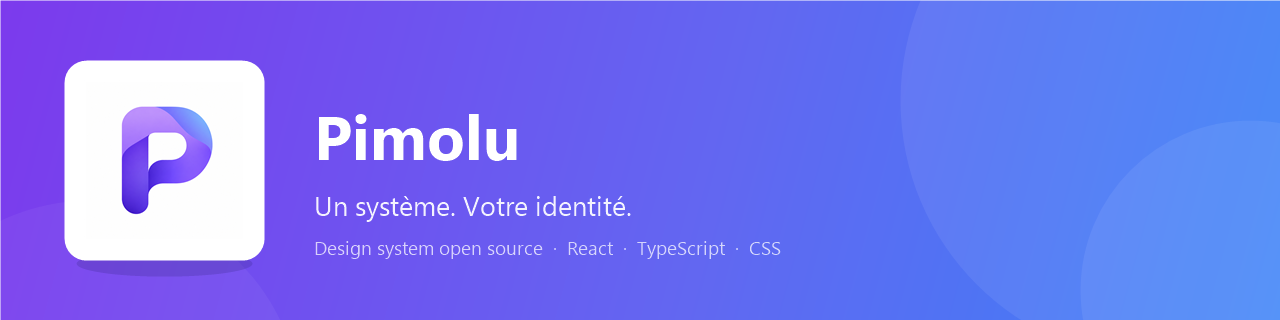
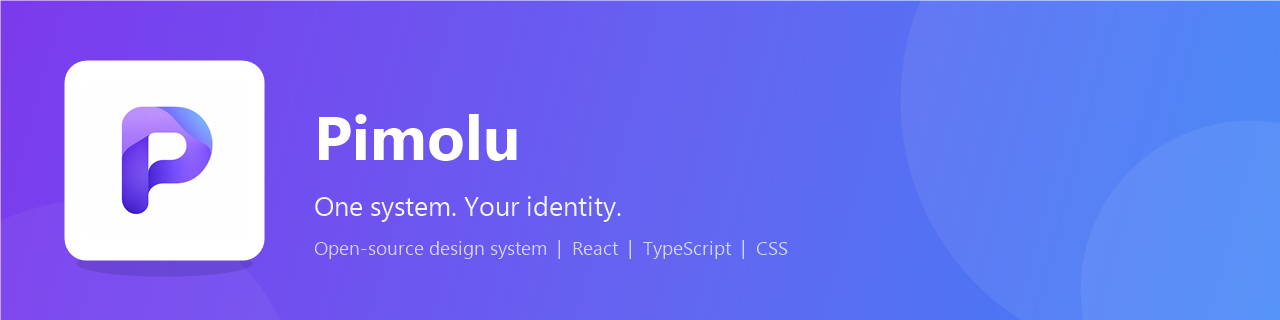
docs: switch organization profile to English

Changed region(s): [[0.25, 0.75, 0.625, 0.8125], [0.25, 0.5938, 0.5, 0.6875]]

diff --git a/profile/README.md b/profile/README.md
@@ -1,23 +1,19 @@
 <div align="center">
-  <img src="https://raw.githubusercontent.com/pimoludev/.github/main/profile/assets/banner.png" alt="Pimolu — Un système. Votre identité." width="100%" />
+  <img src="https://raw.githubusercontent.com/pimoludev/.github/main/profile/assets/banner.png" alt="Pimolu — One system. Your identity." width="100%" />
 </div>
 
-<h1 align="center">Bienvenue chez Pimolu</h1>
+<h1 align="center">Welcome to Pimolu</h1>
 
 <p align="center">
-  <strong>Un design system qui tient ses promesses.</strong><br />
-  Des composants React accessibles, une source de vérité unique pour le visuel,<br />
-  et des thèmes que l’on change à l’exécution — sans framework de style à apprendre.
+  <strong>A design system that keeps its promises.</strong><br />
+  Accessible React components, a single source of visual truth,<br />
+  and themes you can switch at runtime — with no styling framework to learn.
 </p>
 
 <p align="center">
-  <sub><em>Pimolu UI — an open-source design system that keeps its promises: tokens, themes and accessible React components.</em></sub>
-</p>
-
-<p align="center">
-  <a href="https://pimolu.com">Site</a> ·
+  <a href="https://pimolu.com">Website</a> ·
   <a href="https://pimolu.com/docs">Documentation</a> ·
-  <a href="https://pimolu.com/components">Composants</a> ·
+  <a href="https://pimolu.com/components">Components</a> ·
   <a href="https://pimolu.com/blocks">Blocks</a> ·
   <a href="https://pimolu.com/showcase">Showcase</a> ·
   <a href="https://www.npmjs.com/org/pimolu">npm</a> ·
@@ -25,35 +21,35 @@
 </p>
 
 <p align="center">
-  <a href="https://www.npmjs.com/package/@pimolu/react"><img src="https://img.shields.io/npm/v/@pimolu/react?label=%40pimolu%2Freact&color=7C3AED&labelColor=1F2937&style=flat-square" alt="Version npm de @pimolu/react" /></a>
-  <img src="https://img.shields.io/badge/licence-MIT-7C3AED?labelColor=1F2937&style=flat-square" alt="Licence MIT" />
-  <img src="https://img.shields.io/badge/React-18%20%7C%2019-7C3AED?labelColor=1F2937&style=flat-square" alt="React 18 et 19" />
-  <img src="https://img.shields.io/badge/TypeScript-strict-7C3AED?labelColor=1F2937&style=flat-square" alt="TypeScript strict" />
+  <a href="https://www.npmjs.com/package/@pimolu/react"><img src="https://img.shields.io/npm/v/@pimolu/react?label=%40pimolu%2Freact&color=7C3AED&labelColor=1F2937&style=flat-square" alt="npm version of @pimolu/react" /></a>
+  <img src="https://img.shields.io/badge/license-MIT-7C3AED?labelColor=1F2937&style=flat-square" alt="MIT license" />
+  <img src="https://img.shields.io/badge/React-18%20%7C%2019-7C3AED?labelColor=1F2937&style=flat-square" alt="React 18 and 19" />
+  <img src="https://img.shields.io/badge/TypeScript-strict-7C3AED?labelColor=1F2937&style=flat-square" alt="Strict TypeScript" />
 </p>
 
 ---
 
-## Notre conviction
+## Why Pimolu
 
-Les interfaces finissent par dériver. Une couleur ajustée ici, un rayon modifié là, et quelques mois plus tard plus aucun écran ne semble appartenir au même produit.
+Interfaces drift. A colour is adjusted here, a radius there, and a few months later no two screens quite look like they belong to the same product.
 
-Pimolu traite cette dérive comme le premier problème à résoudre. Chaque décision visuelle vit derrière un **design token** : la cohérence devient le comportement par défaut plutôt qu’un effort permanent. Les thèmes et les styles s’appliquent par attributs, jamais par du code conditionnel — on dessine l’interface une fois, puis on l’habille selon le produit, aujourd’hui comme demain.
+Pimolu treats that drift as the problem worth solving first. Every visual decision lives behind a **design token**, so consistency becomes the default instead of a constant effort. Themes and styles are applied through attributes, never through conditional code — you design the interface once, then dress it for the product, today and later.
 
-Et parce qu’une fondation doit rester lisible, il n’y a ni runtime CSS-in-JS, ni framework de classes utilitaires, ni magie de build. Juste du CSS : des classes `pimolu-*` et des variables `--pimolu-*` que vous pouvez lire, surcharger et quitter.
+And because a foundation should stay readable, there is no CSS-in-JS runtime, no utility-class framework and no build magic. Just CSS: `pimolu-*` classes and `--pimolu-*` variables you can read, override and leave.
 
-## Ce que ça change
+## What you get
 
-| Principe | Ce que vous obtenez |
+| Principle | What it means for you |
 | --- | --- |
-| **Une seule source de vérité** | Les valeurs sont écrites une fois comme design tokens, puis compilées pour le web et JavaScript. Un changement se propage au lieu d’être répété. |
-| **Des thèmes sans réécriture** | Clair, sombre et système, plus sept presets visuels, s’activent à l’exécution par attribut. Aucun composant n’est touché. |
-| **L’accessibilité incluse** | Navigation clavier, focus visible, états occupé et désactivé, libellés pour lecteurs d’écran et respect de `prefers-reduced-motion`. |
-| **Aucun framework à apprendre** | Du CSS simple et prévisible, facile à surcharger, sans verrou technique. |
-| **Typé de bout en bout** | TypeScript strict sur les composants et les API publiques : les erreurs arrivent avant l’exécution. |
+| **A single source of truth** | Values are authored once as design tokens, then compiled for the web and JavaScript. A change propagates instead of being repeated. |
+| **Themes without rewrites** | Light, dark and system modes, plus seven visual presets, are switched at runtime with an attribute. No component is touched. |
+| **Accessibility included** | Keyboard support, visible focus, busy and disabled states, screen-reader labels and reduced-motion handling are built in. |
+| **No framework to learn** | Plain, predictable CSS that is easy to override, with no lock-in. |
+| **Typed end to end** | Strict TypeScript across components and public APIs, so mistakes are caught before runtime. |
 
-Combinez librement un thème (clair, sombre, système) avec un preset : `default`, `monochrome`, `cartoon`, `glass`, `luxury`, `neo-brutalism` ou `adaptive`. La densité, le rayon et la couleur de marque se règlent séparément, sans toucher aux composants.
+Combine a theme (light, dark, system) with a preset: `default`, `monochrome`, `cartoon`, `glass`, `luxury`, `neo-brutalism` or `adaptive`. Radius, density and brand colour are configured independently, without touching a single component.
 
-## Démarrer
+## Get started
 
 ```bash
 npm install @pimolu/react@beta @pimolu/web-styles@beta
@@ -66,62 +62,62 @@ import "@pimolu/web-styles/styles.css";
 export function App() {
   return (
     <PimoluProvider theme="dark" stylePreset="glass">
-      <Button>Commencer</Button>
+      <Button>Get started</Button>
     </PimoluProvider>
   );
 }
 ```
 
-Importez la feuille de styles une fois à l’entrée de votre application, enveloppez l’interface dans `PimoluProvider`, et changez de thème ou de preset sans modifier un seul composant. Tailwind CSS reste optionnel.
+Import the stylesheet once at your application entry, wrap your interface in `PimoluProvider`, and switch themes or presets without editing a single component. Tailwind CSS is optional.
 
-## Explorer
+## Explore
 
-| Ressource | Ce que vous y trouverez |
+| Resource | What you will find |
 | --- | --- |
-| [**pimolu.com**](https://pimolu.com) | Le site, la démo interactive et la vision du produit. |
-| [**Documentation**](https://pimolu.com/docs) | Installation, theming, API et guides pratiques. |
-| [**Composants**](https://pimolu.com/components) | Le catalogue complet, avec des exemples vivants. |
-| [**Blocks**](https://pimolu.com/blocks) | Des compositions prêtes à l’emploi pour aller plus vite. |
-| [**Showcase**](https://pimolu.com/showcase) | Des produits construits avec Pimolu UI. |
-| [**Releases**](https://pimolu.com/releases) | Notes de version et évolutions du système. |
-| [**npm**](https://www.npmjs.com/org/pimolu) | Les paquets publiés de l’écosystème. |
+| [**pimolu.com**](https://pimolu.com) | The website, the interactive demo and the product vision. |
+| [**Documentation**](https://pimolu.com/docs) | Installation, theming, API reference and practical guides. |
+| [**Components**](https://pimolu.com/components) | The full catalogue, with live examples. |
+| [**Blocks**](https://pimolu.com/blocks) | Ready-made compositions to move faster. |
+| [**Showcase**](https://pimolu.com/showcase) | Products built with Pimolu UI. |
+| [**Releases**](https://pimolu.com/releases) | Release notes and changes to the system. |
+| [**npm**](https://www.npmjs.com/org/pimolu) | The published packages of the ecosystem. |
 
-## Les dépôts
+## Repositories
 
-| Dépôt | Rôle |
+| Repository | Purpose |
 | --- | --- |
-| [**ui**](https://github.com/pimoludev/ui) | Le design system : tokens, thèmes, composants React, playground et site de documentation. |
-| [**react-vite-starter**](https://github.com/pimoludev/react-vite-starter) | Un starter React minimal et autonome avec Vite, TypeScript, Tailwind et les paquets Pimolu publiés. |
-| [**nextjs-starter**](https://github.com/pimoludev/nextjs-starter) | Le point de départ équivalent pour une application Next.js. |
-| [**dashboard-starter**](https://github.com/pimoludev/dashboard-starter) | Un template de tableau de bord pour démarrer une application de gestion. |
-| [**saas-landing**](https://github.com/pimoludev/saas-landing) | Un template de landing page pour un produit SaaS. |
-| [**pimolu-headset**](https://github.com/pimoludev/pimolu-headset) | Une boutique de démonstration complète, construite avec Pimolu UI — [voir en ligne](https://pimolu-headset.pimolu.com/). |
-| [**cli**](https://github.com/pimoludev/cli) | L’outil en ligne de commande de l’écosystème Pimolu. |
-| [**.github**](https://github.com/pimoludev/.github) | Le profil de l’organisation et ses visuels. |
+| [**ui**](https://github.com/pimoludev/ui) | The design system: tokens, themes, React components, playground and documentation website. |
+| [**react-vite-starter**](https://github.com/pimoludev/react-vite-starter) | A minimal, independent React starter with Vite, TypeScript, Tailwind and the published Pimolu packages. |
+| [**nextjs-starter**](https://github.com/pimoludev/nextjs-starter) | The equivalent starting point for a Next.js application. |
+| [**dashboard-starter**](https://github.com/pimoludev/dashboard-starter) | A dashboard template for getting a management application off the ground. |
+| [**saas-landing**](https://github.com/pimoludev/saas-landing) | A landing page template for a SaaS product. |
+| [**pimolu-headset**](https://github.com/pimoludev/pimolu-headset) | A complete storefront showcase built with Pimolu UI — [view it live](https://pimolu-headset.pimolu.com/). |
+| [**cli**](https://github.com/pimoludev/cli) | The command-line tool for the Pimolu ecosystem. |
+| [**.github**](https://github.com/pimoludev/.github) | The organization profile and its visuals. |
 
-## La mascotte
+## The mascot
 
 <table>
   <tr>
     <td width="230" align="center" valign="middle">
-      <img src="https://raw.githubusercontent.com/pimoludev/.github/main/profile/assets/mascot.jpg" alt="La loutre Pimolu" width="200" />
+      <img src="https://raw.githubusercontent.com/pimoludev/.github/main/profile/assets/mascot.jpg" alt="The Pimolu otter" width="200" />
     </td>
     <td valign="middle">
-      <p>Pimolu, c’est aussi une loutre. Curieuse, méticuleuse, jamais à court d’idées — et un peu bavarde quand il s’agit de design.</p>
-      <p>Elle nous rappelle ce que nous cherchons dans chaque interface : de la précision, de la personnalité, et le plaisir de faire bien les choses.</p>
+      <p>Pimolu also has an otter. Curious, meticulous, never short of ideas — and a little talkative when it comes to design.</p>
+      <p>It reminds us what we look for in every interface: precision, personality, and the pleasure of doing things well.</p>
     </td>
   </tr>
 </table>
 
-## Construire avec nous
+## Build with us
 
-Pimolu se développe ouvertement. Une question, une idée, un bug ? Ouvrez une [issue](https://github.com/pimoludev/ui/issues) sur le dépôt concerné ou rejoignez le [Discord](https://discord.gg/b2UDyvKAcH).
+Pimolu is built in the open. A question, an idea, a bug? Open an [issue](https://github.com/pimoludev/ui/issues) on the relevant repository or join us on [Discord](https://discord.gg/b2UDyvKAcH).
 
-Les contributions sont bienvenues. Pour les changements de fond, parlons-en d’abord dans une issue afin de garder le système cohérent.
+Contributions are welcome. For larger changes, let's discuss them in an issue first so the system stays coherent.
 
 ---
 
 <p align="center">
-  <sub>Les dépôts publics de Pimolu sont publiés sous licence MIT. © 2026 pimoludev.</sub><br />
-  <sub>Fait avec Pimolu UI · <a href="https://pimolu.com">pimolu.com</a></sub>
+  <sub>Pimolu's public repositories are released under the MIT license. © 2026 pimoludev.</sub><br />
+  <sub>Built with Pimolu UI · <a href="https://pimolu.com">pimolu.com</a></sub>
 </p>

diff --git a/README.md b/README.md
@@ -1,19 +1,19 @@
 # .github
 
-Ce dépôt héberge les fichiers communautaires et le profil public de l’organisation **Pimolu**.
+This repository hosts the community files and the public profile of the **Pimolu** organization.
 
-## Profil de l’organisation
+## Organization profile
 
-Le contenu affiché sur [github.com/pimoludev](https://github.com/pimoludev) se trouve dans :
+The content shown at [github.com/pimoludev](https://github.com/pimoludev) lives in:
 
-- [`profile/README.md`](profile/README.md) — le README du profil de l’organisation
-- [`profile/assets/`](profile/assets) — la bannière et les visuels utilisés dans ce README
+- [`profile/README.md`](profile/README.md) — the organization profile README
+- [`profile/assets/`](profile/assets) — the banner and visuals used in that README
 
-Pour modifier le profil, éditez `profile/README.md`, commitez sur `main`, puis rechargez la page de l’organisation.
+To update the profile, edit `profile/README.md`, commit to `main`, then reload the organization page.
 
-## En savoir plus
+## Learn more
 
-- [Personnalisation du profil de votre organisation](https://docs.github.com/fr/organizations/collaborating-with-groups-in-organizations/customizing-your-organizations-profile)
+- [Customizing your organization's profile](https://docs.github.com/en/organizations/collaborating-with-groups-in-organizations/customizing-your-organizations-profile)
 - [Pimolu UI](https://github.com/pimoludev/ui)
 - [pimolu.com](https://pimolu.com)
 
